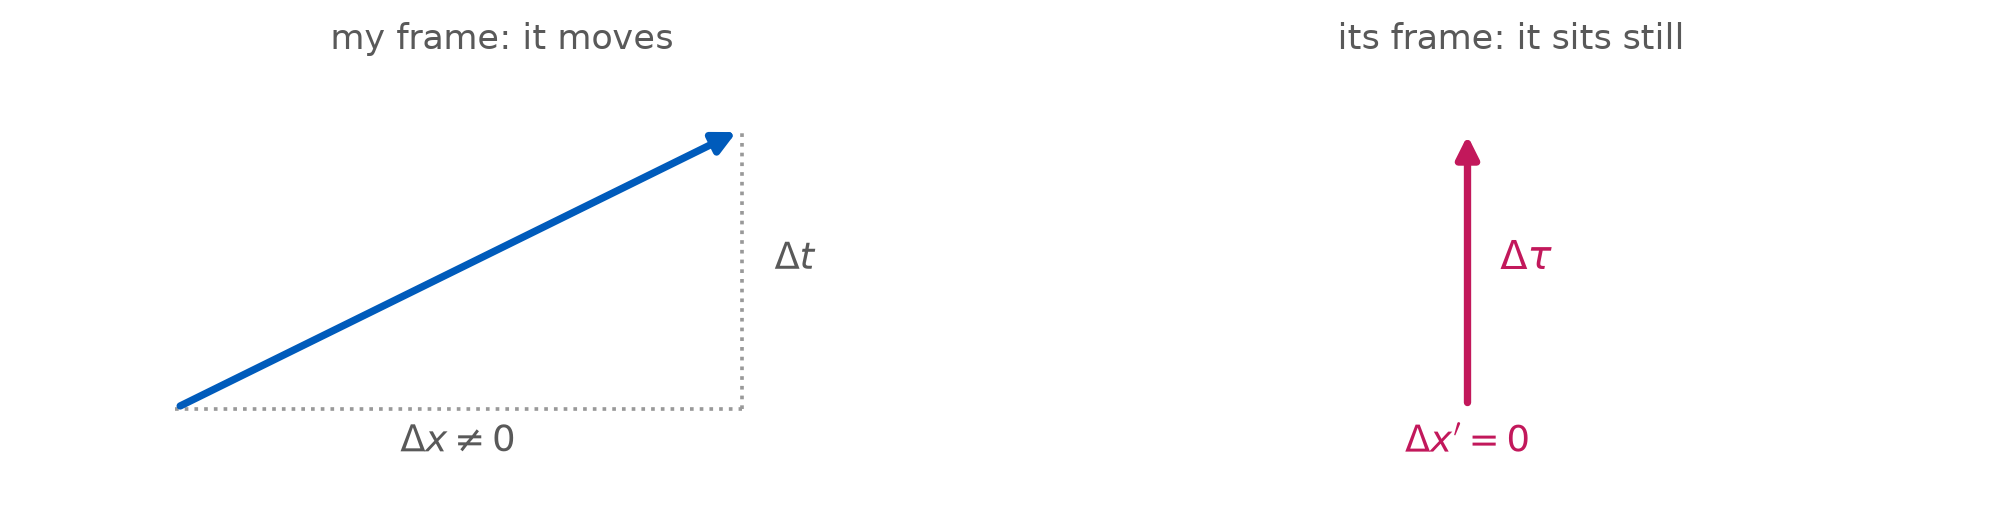
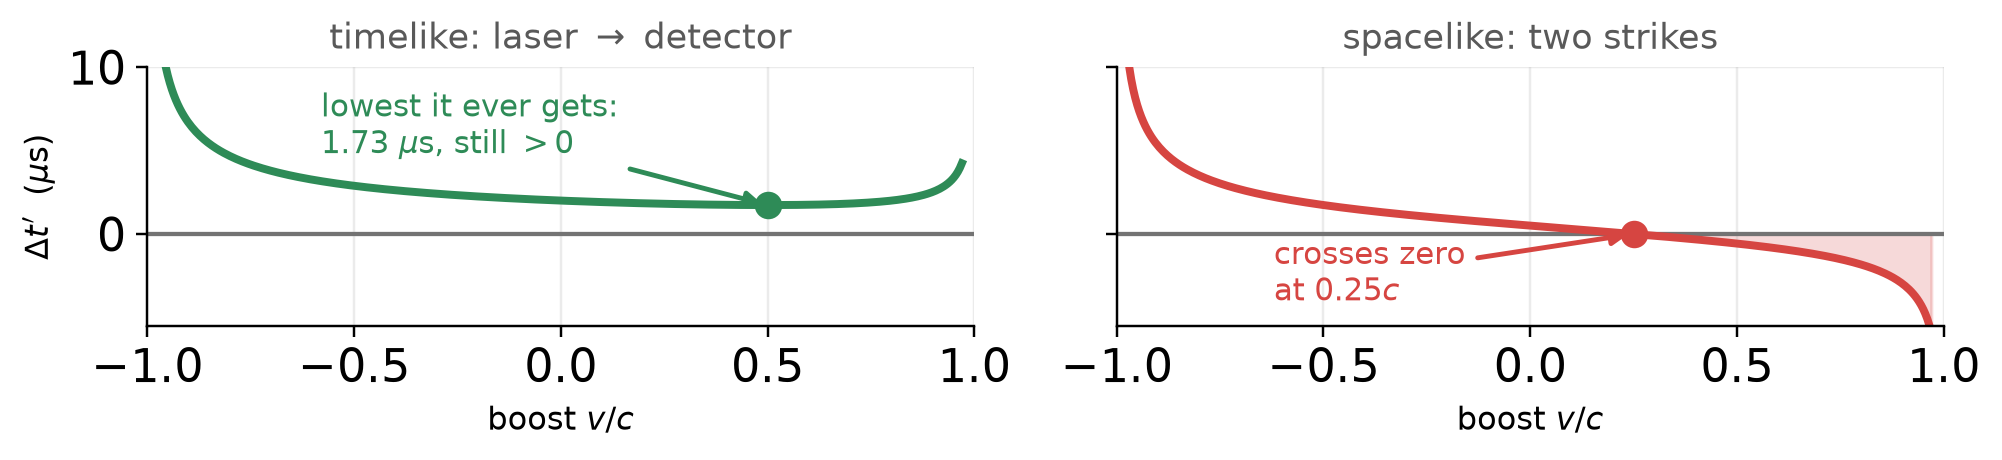
Publish site (source 4e8a237)

diff --git a/Lectures/L08/L08_Invariant_Interval.html b/Lectures/L08/L08_Invariant_Interval.html
@@ -181,7 +181,7 @@ Tim Thomay
 <p>durations, lengths, simultaneity, velocities, the order of events.</p>
 <p><strong>Is there anything left that everyone agrees on?</strong></p>
 </div><div class="column" style="width:43%;">
-<div id="5da79c14" class="cell" data-execution_count="2">
+<div id="8f39d361" class="cell" data-execution_count="2">
 <div class="cell-output cell-output-display">
 <div>
 <figure>
@@ -207,7 +207,7 @@ Tim Thomay
                             -\sinh\phi &amp; \phantom{-}\cosh\phi \end{pmatrix}\]</span></p>
 <p>preserves <span class="wrong"><strong>?</strong></span> — the thing I refused to name.</p>
 </div></div>
-<div id="c5195b54" class="cell" data-execution_count="3">
+<div id="868207c5" class="cell" data-execution_count="3">
 <div class="cell-output cell-output-display">
 <div>
 <figure>
@@ -282,7 +282,7 @@ Tim Thomay
 <p><strong>Show of hands first: who predicted the bottom row?</strong></p>
 <p><span class="math display">\[\boxed{\;\Delta s^{2} = c^{2}\Delta t^{2} - \Delta x^{2}\;}
 \qquad\text{(with } c = 1\text{: the tool's } \Delta t^{2} - \Delta x^{2}\text{)}\]</span></p>
-<div id="086cbf2e" class="cell" data-execution_count="4">
+<div id="bea61fcd" class="cell" data-execution_count="4">
 <div class="cell-output cell-output-stdout">
 <pre><code>   v/c        dt        dx        ds^2
   0.00     3.000     1.000    8.000000
@@ -335,7 +335,7 @@ Tim Thomay
 </section>
 <section id="three-signs-three-meanings" class="slide level2">
 <h2>Three signs, three meanings</h2>
-<div id="eecc5ffa" class="cell" data-execution_count="5">
+<div id="c6cddfc7" class="cell" data-execution_count="5">
 <div class="cell-output cell-output-display">
 <div>
 <figure>
@@ -387,13 +387,29 @@ Tim Thomay
 <p>The two “no”s line up <strong>exactly</strong>. Order reverses only where nothing could have travelled — so no frame ever sees an effect precede its cause.</p>
 </div>
 </section>
-<section id="proper-time-is-the-interval" class="slide level2">
-<h2>Proper time is the interval</h2>
-<div id="8a9fa85c" class="cell" data-execution_count="6">
+<section id="watch-it-not-flip" class="slide level2">
+<h2>Watch it not flip</h2>
+<p>Two events <strong>300 m</strong> apart, <strong>2.0 μs</strong> apart: a pulse leaves a laser, a detector fires. Send it down 300 m of fibre and it arrives in <span class="math inline">\(1.50\ \mu\)</span>s, in time to <strong>cause</strong> the second event. Boost as hard as you like:</p>
+<div id="0edb9b62" class="cell" data-execution_count="6">
 <div class="cell-output cell-output-display">
 <div>
 <figure>
-<p><img data-src="L08_Invariant_Interval_files/figure-revealjs/cell-7-output-1.png" width="1006" height="258"></p>
+<p><img data-src="L08_Invariant_Interval_files/figure-revealjs/cell-7-output-1.png" width="1001" height="230"></p>
+</figure>
+</div>
+</div>
+</div>
+<div class="keyresult">
+<p>Left: <span class="math inline">\(\Delta t'\)</span> bottoms out at <span class="math inline">\(1.73\ \mu\)</span>s and <span class="right">climbs again</span>; cause stays first in <strong>every</strong> frame. Right: nothing connected them, so <span class="wrong">the order is free to reverse</span>.</p>
+</div>
+</section>
+<section id="proper-time-is-the-interval" class="slide level2">
+<h2>Proper time is the interval</h2>
+<div id="435d8a92" class="cell" data-execution_count="7">
+<div class="cell-output cell-output-display">
+<div>
+<figure>
+<p><img data-src="L08_Invariant_Interval_files/figure-revealjs/cell-8-output-1.png" width="1006" height="258"></p>
 </figure>
 </div>
 </div>
@@ -405,25 +421,37 @@ Tim Thomay
 </section>
 <section id="the-longest-path-is-the-straight-one" class="slide level2">
 <h2>The longest path is the straight one</h2>
-<div id="2eed3bf2" class="cell" data-execution_count="7">
+<div id="8944d443" class="cell" data-execution_count="8">
 <div class="cell-output cell-output-display">
 <div>
 <figure>
-<p><img data-src="L08_Invariant_Interval_files/figure-revealjs/cell-8-output-1.png" width="1006" height="269"></p>
+<p><img data-src="L08_Invariant_Interval_files/figure-revealjs/cell-9-output-1.png" width="1006" height="269"></p>
 </figure>
 </div>
 </div>
 </div>
 <p>The minus sign reverses the inequality: a <strong>detour through space costs proper time</strong>. Sitting still is the way to age the most.</p>
-</section>
+<div class="fragment">
+<p><strong>Somebody has actually done it.</strong> Scott Kelly spent 340 days on the ISS at 7.66 km/s:</p>
+<div id="a1e3e257" class="cell" data-execution_count="9">
+<div class="cell-output cell-output-stdout">
+<pre><code>340 days at 7.66 km/s  -&gt;  9.59 ms of proper time not lived
+                           (28.2 us per day)</code></pre>
+</div>
+</div>
+
+</div>
+<aside><div>
+<p>Neil deGrasse Tyson tweeted it as “about 1/100 of a second”; someone checked the arithmetic, and he was right to within a factor of two. Gravity pushes the other way — clocks run fast higher up, worth <span class="math inline">\(+1.2\)</span> ms — so the honest net is roughly <strong>8 ms younger</strong>. That half is general relativity, not ours.</p>
+</div></aside></section>
 <section id="the-muon-one-last-time" class="slide level2">
 <h2>The muon, one last time</h2>
-<div id="41479984" class="cell" data-execution_count="8">
+<div id="5d35aa8a" class="cell" data-execution_count="10">
 <div class="cell-output cell-output-stdout">
-<pre><code>ground:  dt =  6.393 us   dx =  1907.0 m   -&gt;  ds^2 =   36641.1 m^2   tau = 0.638 us
-muon  :  dt =  0.638 us   dx =     0.0 m   -&gt;  ds^2 =   36641.1 m^2   tau = 0.638 us
+<pre><code>ground:  dt = 6388609.715 us   dx =  1907.0 m   -&gt;  ds^2 =   36641.1 m^2   tau = 638061.896 us
+muon  :  dt = 638061.896 us   dx =     0.0 m   -&gt;  ds^2 =   36641.1 m^2   tau = 638061.896 us
 
-that 0.64 us is 0.290 of a 2.2 us lifetime -&gt; e^-0.29 = 75% survive</code></pre>
+that 0.64 us is 290028.134 of a 2.2 us lifetime -&gt; e^-0.29 = 0% survive</code></pre>
 </div>
 </div>
 <div class="keyresult">
@@ -469,12 +497,12 @@ that 0.64 us is 0.290 of a 2.2 us lifetime -&gt; e^-0.29 = 75% survive</code></p
 <section id="section-1" class="slide level2 center">
 <h2></h2>
 <div class="concept">
-<p>Two events have <span class="math inline">\(\Delta s^{2} &lt; 0\)</span>. In my frame A happens before B. A ship, moving fast enough, measures <strong>B before A</strong>.</p>
-<h3 id="does-that-let-the-crew-use-the-pair-to-send-a-signal-into-their-own-past">Does that let the crew use the pair to send a signal into their own past?</h3>
-<p><strong>(a)</strong> Yes, and that is a genuine inconsistency in the theory</p>
-<p><strong>(b)</strong> Yes, but only for observers moving faster than <span class="math inline">\(c\)</span>, so it never happens</p>
-<p><strong>(c)</strong> No — nothing could have travelled between those two events in the first place</p>
-<p><strong>(d)</strong> No, because the reversal is an optical illusion caused by signal delay</p>
+<p>Two events, in my frame: A is a switch thrown at <span class="math inline">\(x = 0\)</span>, and B is a lamp lighting <strong>600 m</strong> away, <strong>1.0 microsecond</strong> later. Someone claims A caused B. Use <span class="math inline">\(c = 300\)</span> m per microsecond.</p>
+<h3 id="which-statement-is-correct">Which statement is correct?</h3>
+<p><strong>(a)</strong> A could have caused B, and every frame agrees A came first</p>
+<p><strong>(b)</strong> A cannot have caused B, and some frames put B first</p>
+<p><strong>(c)</strong> A cannot have caused B, but every frame still agrees A came first</p>
+<p><strong>(d)</strong> A could have caused B, but only frames slower than <span class="math inline">\(0.5c\)</span> agree A came first</p>
 </div>
 </section>
 <section id="the-bound-is-on-information" class="slide level2">
@@ -484,10 +512,10 @@ that 0.64 us is 0.290 of a 2.2 us lifetime -&gt; e^-0.29 = 75% survive</code></p
 <div class="columns">
 <div class="column" style="width:52%;">
 <p>A laser spot swept across the Moon <strong>easily</strong> exceeds <span class="math inline">\(c\)</span>.</p>
-<div id="13c4d529" class="cell" data-execution_count="9">
+<div id="6f61f1ea" class="cell" data-execution_count="11">
 <div class="cell-output cell-output-stdout">
 <pre><code>sweep 1 deg in 0.1 s
-spot speed = 6.709e+07 m/s = 0.22 c</code></pre>
+spot speed = 6.709e+07 m/s = 223634.85 c</code></pre>
 </div>
 </div>
 <p>Nothing is wrong. Every photon flew from Earth at <span class="math inline">\(c\)</span>; the “spot” is a sequence of <span class="wrong">unrelated arrivals</span>.</p>
@@ -524,13 +552,65 @@ spot speed = 6.709e+07 m/s = 0.22 c</code></pre>
 <p>The speed limit is not on <em>motion</em>. It is on <strong>causal influence</strong> — and that is precisely what <span class="math inline">\(\Delta s^{2} \geq 0\)</span> encodes.</p>
 </div>
 </section>
-<section id="the-scissors-and-why-nothing-is-at-the-crossing-point" class="slide level2">
-<h2>The scissors, and why nothing is at the crossing point</h2>
-<div id="d8ebe4a9" class="cell" data-execution_count="10">
+<section id="so-somebody-measured-it" class="slide level2">
+<h2>So somebody measured it</h2>
+<table class="caption-top">
+<colgroup>
+<col style="width: 33%">
+<col style="width: 33%">
+<col style="width: 33%">
+</colgroup>
+<tbody>
+<tr class="odd">
+<td><strong>2000</strong> · Wang, Kuzmich &amp; Dogariu</td>
+<td>caesium vapour, group index <span class="math inline">\(n_g = -310\)</span></td>
+<td>the <em>peak</em> leaves early</td>
+</tr>
+<tr class="even">
+<td><strong>2003</strong> · Stenner, Gauthier &amp; Neifeld</td>
+<td>encoded a real symbol, timed the <strong>detector</strong></td>
+<td>arrives <span class="right">slightly <em>later</em></span> than vacuum</td>
+</tr>
+<tr class="odd">
+<td><strong>2011</strong> · Zhang <em>et al.</em>, single photons</td>
+<td>the sharp leading <strong>front</strong></td>
+<td>exactly <span class="math inline">\(c\)</span>, always</td>
+</tr>
+</tbody>
+</table>
+<div class="keyresult">
+<p>The envelope can do almost anything. <span class="right">The front cannot</span> — and the front is what carries the news.</p>
+</div>
+
+<aside><div>
+<p><em>Nature</em> <strong>406</strong> 277 (2000) · <em>Nature</em> <strong>425</strong> 695 (2003) · <em>Phys. Rev.&nbsp;Lett.</em> <strong>106</strong> 243602 (2011)</p>
+</div></aside></section>
+<section id="even-entanglement-obeys-it" class="slide level2">
+<h2>Even entanglement obeys it</h2>
+<p>Measure one half of an entangled pair and the far half is <strong>instantly</strong> described differently. Three experiments in 2015 closed the last loopholes: local realism is <span class="wrong">dead</span>.</p>
+<div class="fragment">
+<p>And still <strong>no message</strong>: whatever you choose to do at your end, the statistics at the far end are <span class="right">exactly unchanged</span>. The correlation only becomes visible when the two records are compared — over an ordinary channel, at <span class="math inline">\(c\)</span> or slower.</p>
+</div>
+<div id="443ce43d" class="cell" data-execution_count="12">
 <div class="cell-output cell-output-display">
 <div>
 <figure>
-<p><img data-src="L08_Invariant_Interval_files/figure-revealjs/cell-11-output-1.png" width="1005" height="305"></p>
+<p><img data-src="L08_Invariant_Interval_files/figure-revealjs/cell-13-output-1.png" width="1006" height="143"></p>
+</figure>
+</div>
+</div>
+</div>
+
+<aside><div>
+<p>Identical, whatever Alice does — that is the no-signalling theorem. Hensen <em>et al.</em>, <em>Nature</em> <strong>526</strong> 682 (2015), 1.3 km apart · Giustina and Shalm, <em>Phys. Rev.&nbsp;Lett.</em> <strong>115</strong> 250401 / 250402 (2015)</p>
+</div></aside></section>
+<section id="the-scissors-and-why-nothing-is-at-the-crossing-point" class="slide level2">
+<h2>The scissors, and why nothing is at the crossing point</h2>
+<div id="c7b9b448" class="cell" data-execution_count="13">
+<div class="cell-output cell-output-display">
+<div>
+<figure>
+<p><img data-src="L08_Invariant_Interval_files/figure-revealjs/cell-14-output-1.png" width="1005" height="305"></p>
 </figure>
 </div>
 </div>
@@ -556,11 +636,11 @@ spot speed = 6.709e+07 m/s = 0.22 c</code></pre>
 </blockquote>
 <p><span class="right">True, and structural</span> — it is what <span class="math inline">\(\Delta s^{2} \geq 0\)</span> says.</p>
 </div></div>
-<div id="de8005e1" class="cell" data-execution_count="11">
+<div id="5d9f85ac" class="cell" data-execution_count="14">
 <div class="cell-output cell-output-display">
 <div>
 <figure>
-<p><img data-src="L08_Invariant_Interval_files/figure-revealjs/cell-12-output-1.png" width="1006" height="121"></p>
+<p><img data-src="L08_Invariant_Interval_files/figure-revealjs/cell-15-output-1.png" width="1006" height="121"></p>
 </figure>
 </div>
 </div>
@@ -616,12 +696,12 @@ spot speed = 6.709e+07 m/s = 0.22 c</code></pre>
 </section>
 <section id="the-three-rows-worked" class="slide level2">
 <h2>The three rows, worked</h2>
-<div id="2bbdfba1" class="cell" data-execution_count="12">
+<div id="2ed03f1e" class="cell" data-execution_count="15">
 <div class="cell-output cell-output-stdout">
 <pre><code>       c*dt (m)   dx (m)    ds^2 (m^2)       kind  tau (us)
-1         599.6    300.0     2.695e+05   timelike     1.732
-2         299.8    600.0    -2.701e+05  spacelike       nan
-3         599.6    590.0     1.142e+04   timelike     0.356</code></pre>
+1           0.0    300.0    -9.000e+04  spacelike       nan
+2           0.0    600.0    -3.600e+05  spacelike       nan
+3           0.0    590.0    -3.481e+05  spacelike       nan</code></pre>
 </div>
 </div>
 <div class="keyresult">
@@ -662,6 +742,31 @@ spot speed = 6.709e+07 m/s = 0.22 c</code></pre>
 </table>
 <div class="keyresult">
 <p>Same four claims, now with a <strong>number</strong> behind each. That is what an invariant buys: pictures become computations.</p>
+</div>
+</section>
+<section id="relative-is-not-arbitrary" class="slide level2">
+<h2>Relative is not arbitrary</h2>
+<div class="columns">
+<div class="column" style="width:49%;">
+<p><strong>What actually varies</strong></p>
+<p><span class="math inline">\(\Delta t\)</span>, <span class="math inline">\(\Delta x\)</span>, lengths, durations, the order of <em>some</em> pairs.</p>
+<p>These are <strong>readings</strong>, and a reading needs a frame: “how far to the left?” has no answer until you say left of what.</p>
+</div><div class="column" style="width:49%;">
+<p><strong>What does not</strong></p>
+<p><span class="math inline">\(\Delta s^{2}\)</span>, <span class="math inline">\(\Delta\tau\)</span>, the sign of <span class="math inline">\(\Delta s^{2}\)</span>, <span class="math inline">\(c\)</span>, what happened at an event.</p>
+<p>Every frame computes the <strong>same number</strong>.</p>
+</div></div>
+<div id="5d335560" class="cell" data-execution_count="16">
+<div class="cell-output cell-output-display">
+<div>
+<figure>
+<p><img data-src="L08_Invariant_Interval_files/figure-revealjs/cell-17-output-1.png" width="1005" height="122"></p>
+</figure>
+</div>
+</div>
+</div>
+<div class="keyresult">
+<p>“Everything is relative” would mean <span class="wrong">nothing is computable</span>. What we found is the opposite: disagreement is <strong>exactly bounded</strong>, and the thing underneath is <span class="right">the same for everyone</span>.</p>
 </div>
 </section>
 <section id="minkowski-1908" class="slide level2">

diff --git a/index.html b/index.html
@@ -164,7 +164,7 @@
 </section>
 <section id="license" class="slide level2">
 <h2>License</h2>
-<p>Course material by Tim Thomay, University at Buffalo, licensed <a href="https://creativecommons.org/licenses/by-sa/4.0/">CC BY-SA 4.0</a>. Third-party images retain their original licenses; see the <code>img/CREDITS.md</code> in each lecture folder. Full terms: <a href="LICENSE.md">LICENSE.md</a>.</p>
+<p>Course material by Tim Thomay, University at Buffalo, licensed <a href="https://creativecommons.org/licenses/by-sa/4.0/">CC BY-SA 4.0</a>. Third-party images retain their original licenses; see the <code>img/CREDITS.md</code> in each lecture folder. Full terms: <a href="LICENSE">LICENSE</a>; course-specific conditions: <a href="LICENSING.md">LICENSING.md</a>.</p>
 
 
 </section>

diff --git a/LICENSING.md b/LICENSING.md
@@ -1,4 +1,7 @@
-# License — PHY 208 course materials
+# Licensing — PHY 208 course materials
+
+*The full CC BY-SA 4.0 legal text is in [`LICENSE`](LICENSE). This file records
+what the grant does and does not cover for this course.*
 
 **Copyright © 2026 Tim Thomay, University at Buffalo.**
 
